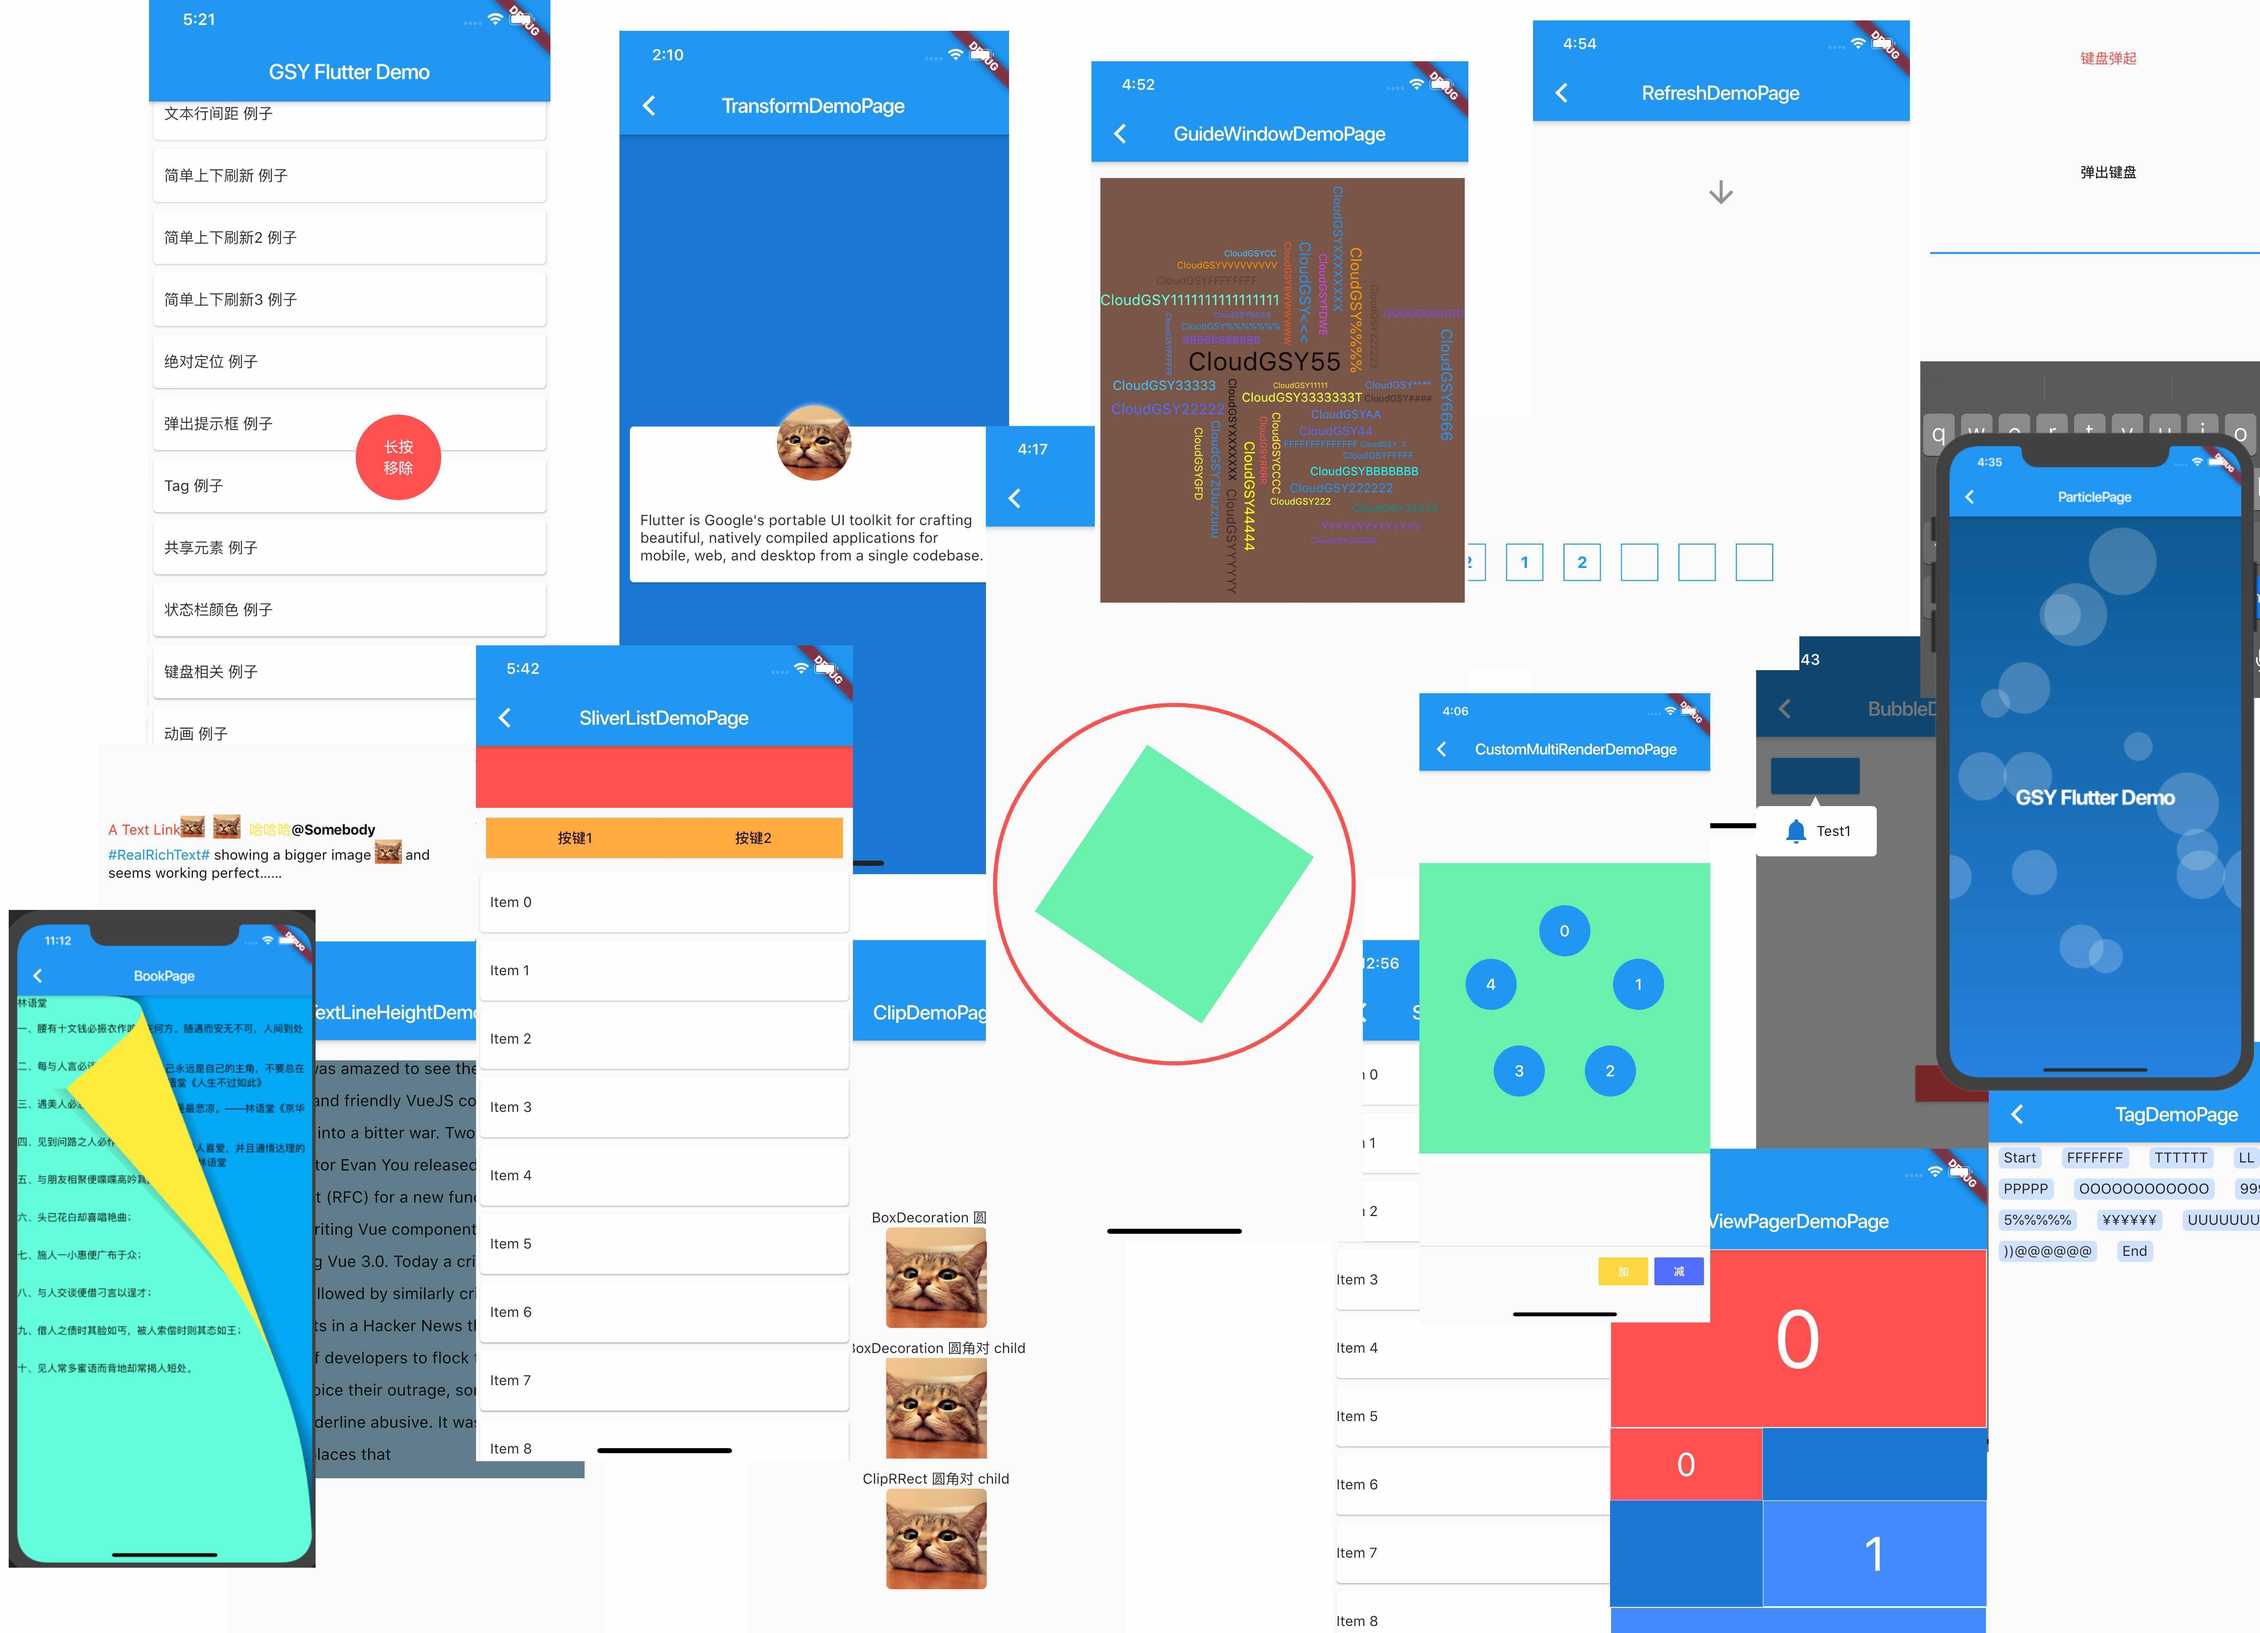
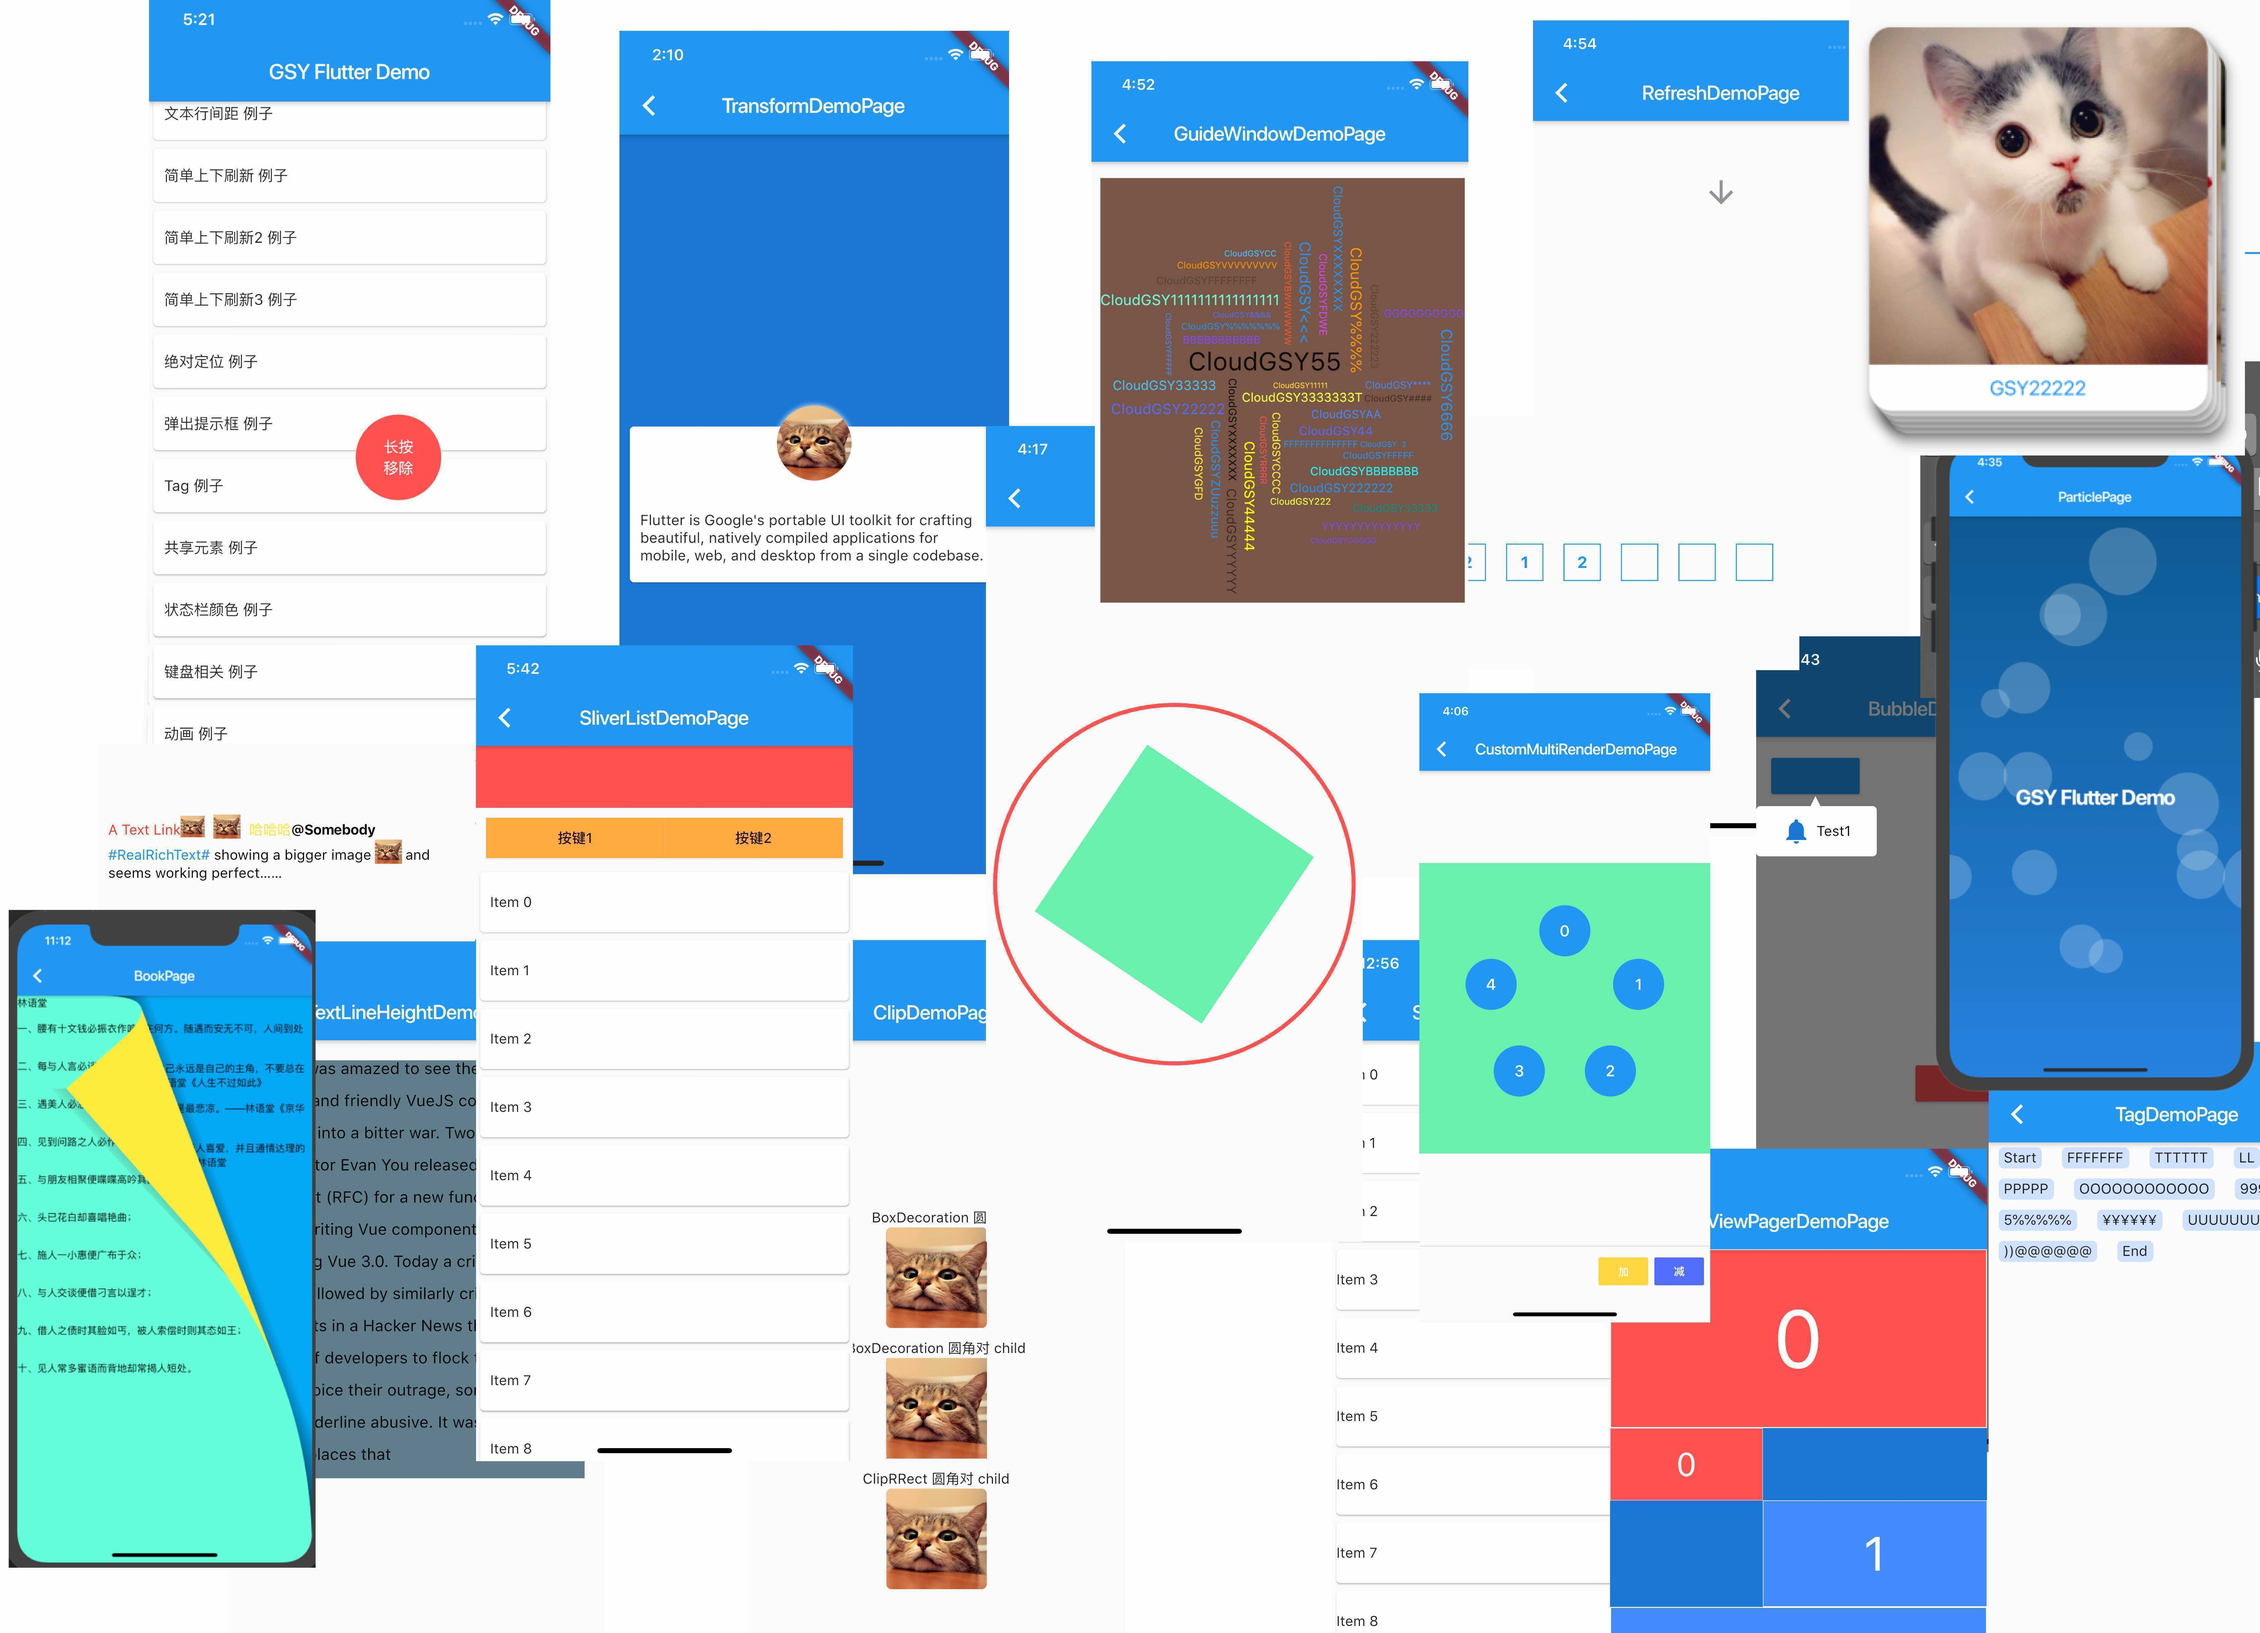
update demo

Changed region(s): [[0.8094, 0.0, 0.9961, 0.2806]]

diff --git a/lib/widget/index_stack_drag_card_demo_page.dart b/lib/widget/index_stack_drag_card_demo_page.dart
@@ -1,0 +1,183 @@
+import 'package:flutter/material.dart';
+
+class IndexStackDragCardDemoPage extends StatefulWidget {
+  @override
+  State<StatefulWidget> createState() => IndexStackDragCardDemoPageState();
+}
+
+class IndexStackDragCardDemoPageState
+    extends State<IndexStackDragCardDemoPage> {
+  var dataList = List();
+
+  @override
+  void initState() {
+    super.initState();
+    dataList = getDataList();
+  }
+
+  @override
+  Widget build(BuildContext context) {
+    print("#####");
+    return Scaffold(
+      appBar: AppBar(
+        title: Text("IndexStackDragCardDemoPage"),
+      ),
+      body: Stack(alignment: Alignment.center, children: getCardList()),
+    );
+  }
+
+  void removeThis(index) {
+    setState(() {
+      dataList.removeAt(index);
+    });
+    if (dataList.length == 0) {
+      Future.delayed(Duration(seconds: 0), () {
+        setState(() {
+          dataList = getDataList();
+        });
+      });
+    }
+  }
+
+  getCardItem(index, data) {
+    return GestureDetector(
+      onTap: () {
+        print("###### ${data.name}");
+      },
+      child: Card(
+          elevation: 8.0,
+          shape: RoundedRectangleBorder(
+            borderRadius: BorderRadius.circular(20.0),
+          ),
+          child: Column(
+            children: <Widget>[
+              Container(
+                decoration: BoxDecoration(
+                  borderRadius: BorderRadius.only(
+                      topLeft: Radius.circular(20.0),
+                      topRight: Radius.circular(20.0)),
+                  image: DecorationImage(
+                      image: NetworkImage(data.image), fit: BoxFit.cover),
+                ),
+                height: 300.0,
+                width: 300.0,
+              ),
+              Container(
+                padding: EdgeInsets.symmetric(vertical: 10),
+                child: Text(
+                  data.name,
+                  style: TextStyle(
+                    fontSize: 18.0,
+                    color: Colors.blue,
+                  ),
+                ),
+              )
+            ],
+          )),
+    );
+  }
+
+  List<Widget> getCardList() {
+    List<Widget> cardList = new List();
+    var length = dataList.length;
+    if (length > 5) {
+      length = 5;
+    }
+    for (int i = length - 1; i >= 0; i--) {
+      cardList.add(Positioned.fill(
+        child: UnconstrainedBox(
+            child: Container(
+          child: Draggable(
+              onDragEnd: (drag) {
+                print("#### ${drag.velocity.pixelsPerSecond} ${drag.offset}");
+
+                ///往下斜着拖
+                if (drag.offset.dx.abs() >
+                        MediaQuery.of(context).size.width / 2 ||
+                    drag.offset.dx < -MediaQuery.of(context).size.width / 4 ||
+                    drag.offset.dy.abs() >
+                        MediaQuery.of(context).size.height / 2) {
+                  removeThis(i);
+                }
+              },
+              childWhenDragging: Container(),
+              feedback: getCardItem(i, dataList[i]),
+              child: getCardItem(i, dataList[i])),
+          margin: EdgeInsets.only(
+              top: (i < 5) ? 10 * i.toDouble() : 40,
+              left: (i < 5) ? 8 * i.toDouble() : 32),
+        )),
+      ));
+    }
+    return cardList;
+  }
+}
+
+class CardContent {
+  String name;
+  String image;
+
+  CardContent(this.name, this.image);
+}
+
+getDataList() {
+  List<CardContent> dataList = new List();
+  dataList.add(
+    CardContent(
+      "GSY11111",
+      "https://timgsa.baidu.com/timg?image&quality=80&size=b9999_10000&sec=1585650373134&di=31e7eb90847ee8d48ad127bde9d22eaf&imgtype=0&src=http%3A%2F%2Fimage.biaobaiju.com%2Fuploads%2F20180211%2F00%2F1518279668-eOiWwMpucR.jpg",
+    ),
+  );
+  dataList.add(
+    CardContent(
+      "GSY22222",
+      "https://timgsa.baidu.com/timg?image&quality=80&size=b9999_10000&sec=1585647091624&di=96dd78451ff3adc2fdb11f3356dbe3bf&imgtype=0&src=http%3A%2F%2Fpic1.win4000.com%2Fpic%2F5%2Fb8%2F01ab1170599.jpg",
+    ),
+  );
+  dataList.add(CardContent(
+    "GSY33333",
+    "https://timgsa.baidu.com/timg?image&quality=80&size=b9999_10000&sec=1585647077558&di=e42e59012f863de1b99dbb4a830a4186&imgtype=0&src=http%3A%2F%2Fwww.pig66.com%2Fuploadfile%2F2017%2F1204%2F20171204053020537.png",
+  ));
+  dataList.add(CardContent(
+    "GSY44444",
+    "https://timgsa.baidu.com/timg?image&quality=80&size=b9999_10000&sec=1585647077558&di=a07ef32f8f3bfdeec82d0d6bf5395f78&imgtype=0&src=http%3A%2F%2Fimg.taopic.com%2Fuploads%2Fallimg%2F120204%2F6447-12020401504047.jpg",
+  ));
+  dataList.add(
+    CardContent(
+      "GSY555555",
+      "https://timgsa.baidu.com/timg?image&quality=80&size=b9999_10000&sec=1585647077558&di=bbcd86551bc585e86a24d98c22d30977&imgtype=0&src=http%3A%2F%2Fimage.biaobaiju.com%2Fuploads%2F20180211%2F01%2F1518283540-LgTZQMHKhb.jpg",
+    ),
+  );
+  dataList.add(
+    CardContent(
+      "GSY66666",
+      "https://timgsa.baidu.com/timg?image&quality=80&size=b9999_10000&sec=1585647077558&di=4d9767b11af12151410845d1aefabed1&imgtype=0&src=http%3A%2F%2Fimage.biaobaiju.com%2Fuploads%2F20180803%2F22%2F1533306030-xbmaHzIVwL.jpg",
+    ),
+  );
+  dataList.add(
+    CardContent(
+      "GSY77777",
+      "https://timgsa.baidu.com/timg?image&quality=80&size=b9999_10000&sec=1585648363323&di=7b55c0070bb23d35f7bbfc39c3a83ffb&imgtype=0&src=http%3A%2F%2Fb-ssl.duitang.com%2Fuploads%2Fitem%2F201710%2F30%2F20171030161534_3482Q.jpeg",
+    ),
+  );
+  dataList.add(
+    CardContent(
+      "GSY88888",
+      "https://ss0.bdstatic.com/70cFuHSh_Q1YnxGkpoWK1HF6hhy/it/u=1160048655,1002586849&fm=26&gp=0.jpg",
+    ),
+  );
+  dataList.add(
+    CardContent(
+      "GSY99999",
+      "https://timgsa.baidu.com/timg?image&quality=80&size=b9999_10000&sec=1585648363323&di=6310deecc8099b8b9a2a3e32ffaf7682&imgtype=0&src=http%3A%2F%2Fwww.chabeichong.com%2Fimages%2F2016%2F10%2F21-06155760.jpg",
+    ),
+  );
+  dataList.add(
+    CardContent(
+      "GSY1010101010",
+      "https://timgsa.baidu.com/timg?image&quality=80&size=b9999_10000&sec=1585648363323&di=81e91a2863231ccc0f020ad85fc046b9&imgtype=0&src=http%3A%2F%2Fandroid-wallpapers.25pp.com%2Ffs04%2F2015%2F09%2F18%2F3%2F2000_1eb877cabf4cb4a22d4eca7f6fa0d04b_900x675.jpg",
+    ),
+  );
+
+  return dataList;
+}

diff --git a/lib/main.dart b/lib/main.dart
@@ -1,5 +1,6 @@
 import 'package:flutter/material.dart';
 import 'package:gsy_flutter_demo/widget/bottom_anim_nav_page.dart';
+import 'package:gsy_flutter_demo/widget/index_stack_drag_card_demo_page.dart';
 import 'package:gsy_flutter_demo/widget/rich_text_demo_page2.dart';
 import 'package:gsy_flutter_demo/widget/scroll_inner_content_demo_page.dart';
 import 'package:gsy_flutter_demo/widget/align_demo_page.dart';
@@ -167,6 +168,7 @@ const routerName = [
   "手势效果",
   "一个有趣的底部跟随例子",
   "一个有趣的圆形选择器",
+  "一个有趣的堆叠卡片例子",
 ];
 
 Map<String, WidgetBuilder> routers = {
@@ -331,5 +333,8 @@ Map<String, WidgetBuilder> routers = {
   },
   "widget/bottom_nav": (context) {
     return new BottomAnimNavPage();
+  },
+  "widget/stack_index": (context) {
+    return new IndexStackDragCardDemoPage();
   },
 };
